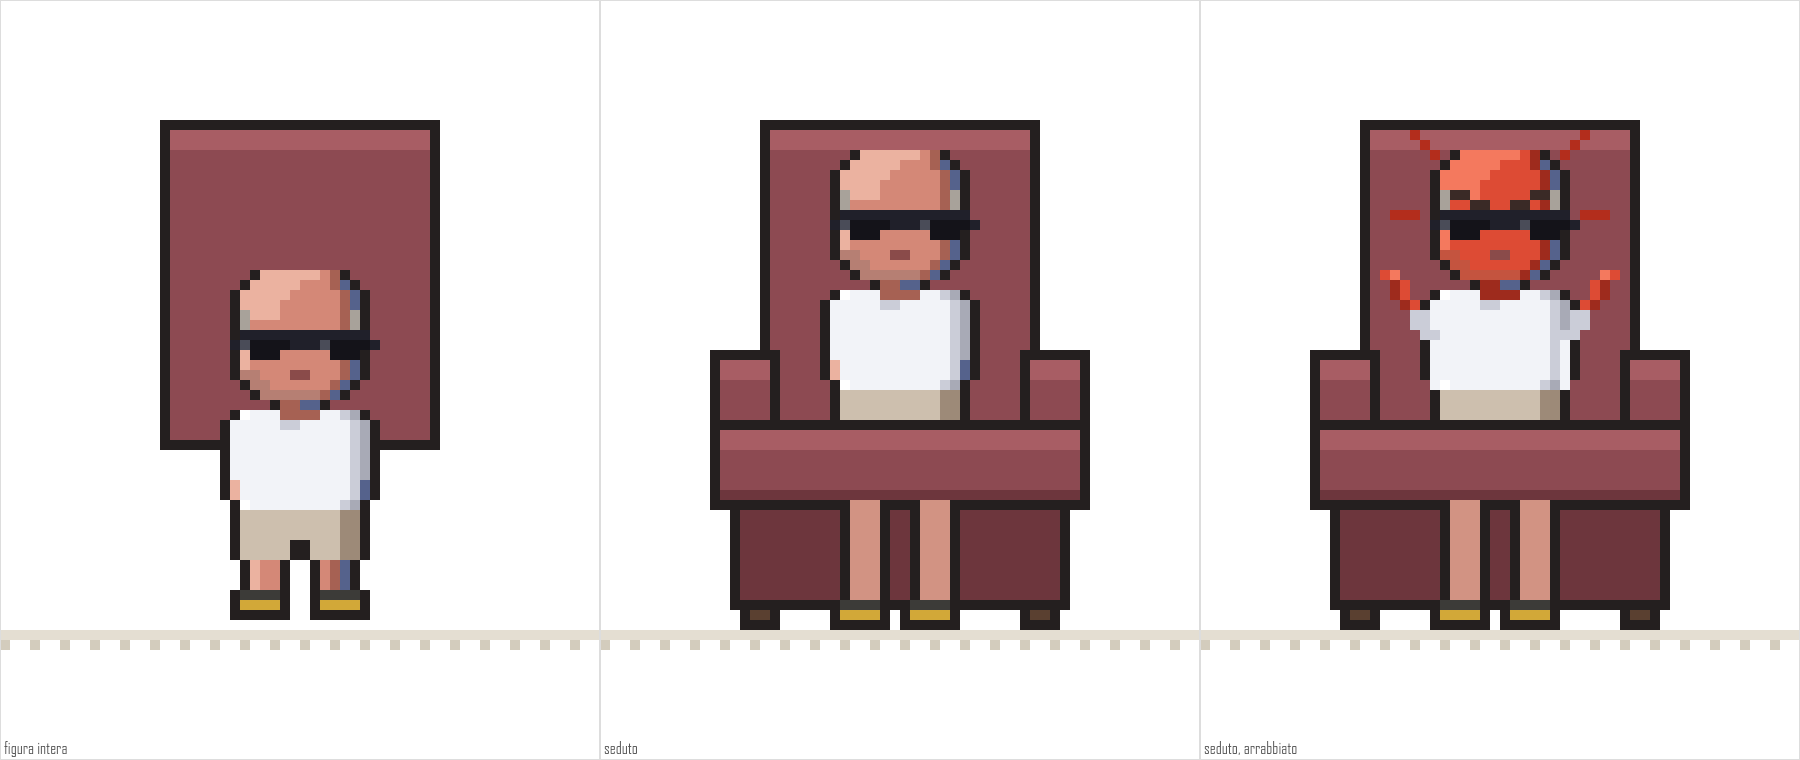
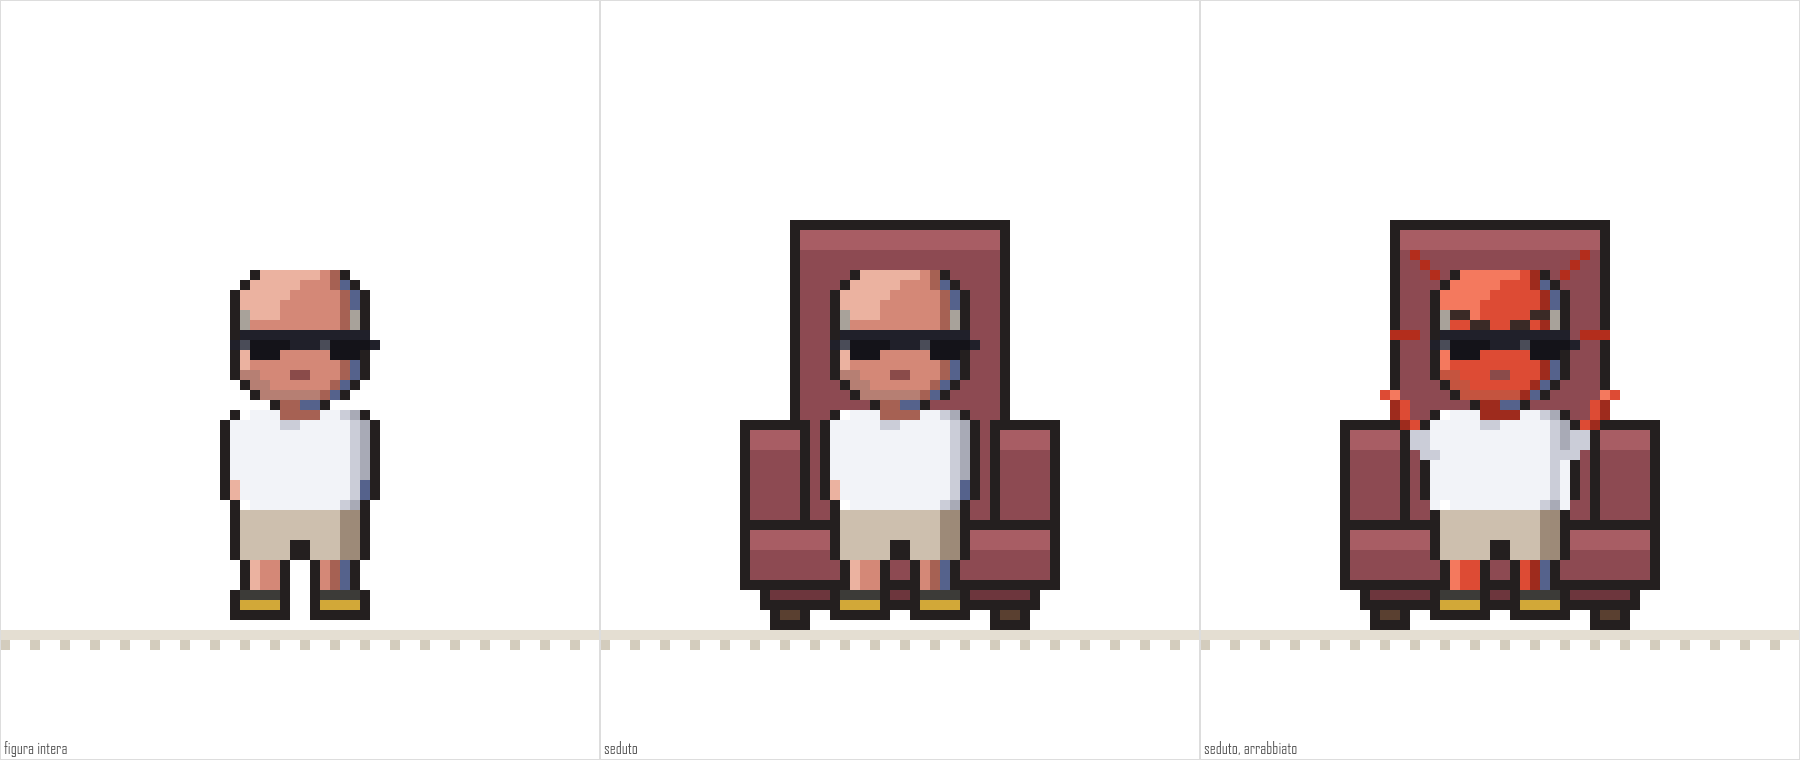
Poltrona rifatta sulla misura del personaggio
Avevo curato il sintomo. Le gambe lunghe non erano una soluzione: erano
la prova che il mobile era fuori scala.

La misura che comanda: dal fianco ai piedi lui e' alto DIECI pixel,
quattro di pantaloncini, tre di stinco, tre di scarpa. In piedi il suo
fianco cade a y=52. Il piano della seduta stava a y=42, cioe' a venti
pixel da terra: il doppio. Per fargli toccare terra gli ho disegnato
dieci pixel di gamba che non ha, ed e' per quello che sembrava allungato.

Ora il piano della seduta sta a y=52, esatto sulla linea dei fianchi.
Lui si disegna INTERO e come sempre, coi piedi a terra e le gambe della
sua lunghezza. Niente da nascondere, niente da inventare.

Di conseguenza cade tutto l'impianto delle passate. La poltrona non si
disegna piu' in due tempi con lui nel mezzo: sta tutta dietro, in una
passata sola. Non c'e' piu' da decidere chi passi davanti a chi, ed e'
esattamente li' che sparivano i pezzi di corpo, un ramo alla volta -
seduto il cuscino, camminando via il mobile intero, alzandosi il primo
fotogramma. Tre difetti diversi, una causa sola.

Larghezza presa sulle spalle e non a occhio: il corpo ne occupa 16 e fra
i braccioli ne restano 18. Con 36 la poltrona gli stava larga e sembrava
che ci stesse davanti in piedi invece che dentro: e' il mobile che
stringe a dire che ci e' seduto.

strumenti/seduto.js ora non conta piu' quanto copre il mobile - non
copre niente per costruzione - ma verifica che le due misure combacino:
[…]

Changed region(s): [[0.7156, 0.1513, 0.9644, 0.8474], [0.3733, 0.1513, 0.6222, 0.8474], [0.0622, 0.1513, 0.2489, 0.6053]]

diff --git a/finale.js b/finale.js
@@ -129,19 +129,31 @@ function statoCaduta(t){
    Vista di fronte. Si disegna in due passate: 'dietro' lo schienale,
    'davanti' seduta e braccioli. Il personaggio va in mezzo alle due.
    -------------------------------------------------------------------------- */
-/* Le misure della poltrona, tutte riferite al piano su cui ci si siede.
-   La prima versione aveva il cuscino spesso 12 e il piano a tre pixel dal
-   pavimento: fra il cuscino e terra non restava spazio per le gambe, e
-   seduto veniva tagliato alla pancia. Di fronte, una persona seduta si
-   riconosce dalle ginocchia: senza, sembra sprofondata nel mobile.
-   Ora il piano e' piu' alto e il cuscino piu' sottile, e sotto ci sono
-   dodici pixel liberi in cui far scendere gli stinchi. */
+/* LE MISURE DELLA POLTRONA, prese sul personaggio e non a occhio.
+
+   Dal fianco ai piedi lui e' alto DIECI pixel: quattro di pantaloncini, tre
+   di stinco, tre di scarpa. In piedi, quindi, il suo fianco cade a y=52.
+
+   E' quello il numero che comanda tutto. Le prime due versioni avevano il
+   piano della seduta a venti pixel da terra, cioe' il doppio: per fargli
+   toccare terra ho finito col disegnargli dieci pixel di gamba che non ha,
+   ed e' per questo che sembrava allungato. Non era la posa a essere
+   sbagliata, era il mobile fuori scala.
+
+   Adesso il piano sta a y=52, esattamente sulla linea dei fianchi. Cosi'
+   lui si disegna INTERO e come sempre, coi piedi a terra e le gambe della
+   sua lunghezza: non si nasconde niente e non si inventa niente. E' la
+   poltrona a stargli intorno. */
+/* La larghezza e' presa sulle spalle, non a occhio: il corpo ne occupa 16,
+   e fra i due braccioli ce ne devono restare giusto 18. Con 36 la poltrona
+   gli stava larga e sembrava che ci stesse davanti in piedi, non dentro:
+   e' il mobile che lo stringe a dire che ci e' seduto. */
 const POLT = {
-  larg: 38,
-  ySeduta: 42,        // il piano su cui appoggia
-  cuscino: 8,         // spessore del cuscino
+  larg: 32,
+  ySeduta: 52,        // la linea dei fianchi: non si tocca
+  cuscino: 6,
   schienale: 30,      // quanto sale lo schienale sopra il piano
-  bracciolo: 7        // quanto salgono i braccioli sopra il piano
+  bracciolo: 10       // quanto salgono i braccioli sopra il piano
 };
 
 function rett(P, x0, y0, x1, y1, colore){
@@ -154,29 +166,12 @@ function cornice(P, x0, y0, x1, y1, colore){
   for (let y = y0; y <= y1; y++){ P.punto(x0, y, colore); P.punto(x1, y, colore); }
 }
 
-/* Gli stinchi e le scarpe di chi e' seduto.
-   Le cosce non si disegnano: di fronte sono scorciate a niente e il cuscino
-   le copre comunque. Bastano le due gambe che scendono dal filo del cuscino
-   fino a terra, alle stesse colonne che hanno nello sprite in piedi, o le
-   gambe non sembrano le sue. */
-function gambeSedute(P, cx, daY, aY){
-  const sx = Math.round(cx - A.LARG_PERS / 2);
-  for (const dx of [5, 12]){             // le due gambe nello sprite del corpo
-    for (let y = daY; y <= aY - 3; y++){
-      P.punto(sx + dx, y, A.C.o);
-      for (let i = 1; i <= 3; i++) P.punto(sx + dx + i, y, A.C.s);
-      P.punto(sx + dx + 4, y, A.C.o);
-    }
-    // calzino, scarpa e suola: le stesse tre righe dello sprite in piedi
-    rett(P, sx + dx - 1, aY - 2, sx + dx + 4, aY - 2, A.C.f);
-    rett(P, sx + dx - 1, aY - 1, sx + dx + 4, aY - 1, A.C.y);
-    rett(P, sx + dx - 1, aY,     sx + dx + 4, aY,     A.C.o);
-    P.punto(sx + dx - 1, aY - 2, A.C.o); P.punto(sx + dx + 4, aY - 2, A.C.o);
-    P.punto(sx + dx - 1, aY - 1, A.C.o); P.punto(sx + dx + 4, aY - 1, A.C.o);
-  }
-}
-
-function poltrona(P, cx, parte, entrata){
+/* La poltrona, tutta in una passata sola.
+   Sta INTERAMENTE dietro al personaggio: nessun pezzo del mobile passa
+   davanti a lui, quindi non c'e' piu' niente che possa sparire. E' un
+   cambio di impianto: prima il mobile lo copriva e bisognava decidere
+   ogni volta chi stesse davanti a chi, e ogni ramo sbagliava a modo suo. */
+function poltrona(P, cx, entrata){
   // entrata da 0 a 1: arriva da fuori, a sinistra
   const dx = Math.round((1 - (entrata === undefined ? 1 : entrata)) * -60);
   const x0 = Math.round(cx - POLT.larg / 2) + dx;
@@ -185,48 +180,36 @@ function poltrona(P, cx, parte, entrata){
   const yGiu = yS + POLT.cuscino;               // il filo sotto il cuscino
   const ySchiena = yS - POLT.schienale;
 
-  if (parte === 'dietro'){
-    // schienale, con la bordatura chiara in alto: gli da' volume
-    rett(P, x0 + 5, ySchiena, x1 - 5, yS + 2, COL.stoffa);
-    rett(P, x0 + 5, ySchiena, x1 - 5, ySchiena + 2, COL.stoffaSu);
-    cornice(P, x0 + 5, ySchiena, x1 - 5, yS + 2, COL.filo);
-    return;
-  }
+  // schienale, con la bordatura chiara in alto: gli da' volume
+  rett(P, x0 + 5, ySchiena, x1 - 5, yS + 2, COL.stoffa);
+  rett(P, x0 + 5, ySchiena, x1 - 5, ySchiena + 2, COL.stoffaSu);
+  cornice(P, x0 + 5, ySchiena, x1 - 5, yS + 2, COL.filo);
 
-  // le gambe di chi e' seduto: vanno DOPO il mobile, perche' gli stinchi
-  // di chi siede stanno davanti alla base della poltrona
-  if (parte === 'gambe'){
-    gambeSedute(P, cx + dx, yGiu, SUOLO);
-    return;
-  }
-
-  // braccioli: appoggiati sul piano, non alti fino alle spalle
+  // braccioli: la cima all'altezza dei gomiti, non delle spalle
   for (const bx of [x0, x1 - 6]){
     rett(P, bx, yS - POLT.bracciolo, bx + 6, yGiu, COL.stoffa);
     rett(P, bx, yS - POLT.bracciolo, bx + 6, yS - POLT.bracciolo + 2, COL.stoffaSu);
     cornice(P, bx, yS - POLT.bracciolo, bx + 6, yGiu, COL.filo);
   }
-  // il cuscino
+
+  // il cuscino: il suo filo superiore cade sulla linea dei fianchi
   rett(P, x0, yS, x1, yGiu, COL.stoffa);
   rett(P, x0, yS, x1, yS + 2, COL.stoffaSu);
-  rett(P, x0, yGiu - 1, x1, yGiu, COL.stoffaGiu);
   cornice(P, x0, yS, x1, yGiu, COL.filo);
-  /* La base, piena fino a terra. Prima c'erano quattro gambe di legno alte
-     dodici pixel e la poltrona sembrava su trampoli: a un mobile imbottito
-     serve peso in basso. Le gambe di chi ci siede passano DAVANTI a questa
-     base, come succede davvero. */
+
+  // la base, piena fino a terra: a un mobile imbottito serve peso in basso
   rett(P, x0 + 2, yGiu, x1 - 2, SUOLO - 2, COL.stoffaGiu);
   cornice(P, x0 + 2, yGiu, x1 - 2, SUOLO - 2, COL.filo);
-  // due piedini appena accennati
   for (const px of [x0 + 3, x1 - 6]){
     rett(P, px, SUOLO - 2, px + 3, SUOLO, COL.legno);
     cornice(P, px, SUOLO - 2, px + 3, SUOLO, COL.filo);
   }
 }
 
-/* Dove mettere i piedi "finti" del corpo in piedi perche' il taglio del
-   cuscino cada sui fianchi: otto pixel sotto il piano della seduta. */
-const Y_SEDUTO = POLT.ySeduta + 8;
+/* Seduto e in piedi stanno alla stessa altezza, perche' il piano della
+   seduta e' proprio la sua linea dei fianchi. Non e' una scorciatoia: e'
+   il motivo per cui non serve piu' nascondergli niente. */
+const Y_SEDUTO = SUOLO;
 
 /* --------------------------------------------------------------------------
    LA PORTA — compare solo se rifiuta tre volte
@@ -423,9 +406,8 @@ function statoScelta(t, esito, tE, rifiuti){
       s.x += b.inclina; s.y = SUOLO + b.dy; s.azione = b.azione;
       s.fase = 'ballo';
     } else {
-      /* Prima si tira su, poi si sposta: partendo gia' in piedi restava un
-         fotogramma con mezzo corpo dietro il cuscino, come tagliato. */
-      s.y = Y_SEDUTO + (SUOLO - Y_SEDUTO) * Math.min(1, alzata * 2.4);
+      // una spintarella per tirarsi su dalla poltrona, poi si sposta
+      s.y = SUOLO - (alzata < 0.4 ? 2 : 0);
       s.azione = 'cammina';
     }
   }
@@ -460,11 +442,6 @@ function statoScelta(t, esito, tE, rifiuti){
     }
   }
 
-  /* Le gambe da seduto si disegnano quando, e solo quando, e' appoggiato al
-     cuscino. Legarle all'altezza invece che alla fase evita di doverci
-     pensare in ogni ramo: se e' li', ci sono. */
-  s.gambe = s.mostraLui && Math.round(s.y) === Y_SEDUTO;
-
   return s;
 }
 
@@ -490,8 +467,7 @@ const API = {
   LARG, ALT, SUOLO, X_CADUTA, X_POLTRONA, Y_SEDUTO, X_BALLO, COL, POLT,
   FASI, DURATA_CADUTA, statoCaduta,
   SCE, FA, FINE_PORTA, RABBIA_SEDUTO, statoScelta,
-  poltrona, gambeSedute, porta, coriandoli, passoDiBallo, lacrime, cuore,
-  suolo, velo,
+  poltrona, porta, coriandoli, passoDiBallo, lacrime, cuore, suolo, velo,
   rett, cornice, TINTE_FESTA
 };
 if (typeof module !== 'undefined' && module.exports) module.exports = API;

diff --git a/strumenti/seduto.js b/strumenti/seduto.js
@@ -34,13 +34,8 @@ CASI.forEach((k, n) => {
   }};
 
   F.suolo(P, 1);
-  const y = k.poltrona ? F.Y_SEDUTO : F.SUOLO;
-  F.poltrona(P, F.X_POLTRONA, "dietro", 1);
-  A.attore(P, F.X_POLTRONA, y, { azione: k.az, t: 40, rabbia: k.ra, ombra: false });
-  if (k.poltrona){
-    F.poltrona(P, F.X_POLTRONA, "davanti", 1);
-    F.poltrona(P, F.X_POLTRONA, "gambe", 1);
-  }
+  if (k.poltrona) F.poltrona(P, F.X_POLTRONA, 1);
+  A.attore(P, F.X_POLTRONA, F.SUOLO, { azione: k.az, t: 40, rabbia: k.ra, ombra: false });
 
   ctx.strokeStyle = "#ddd";
   ctx.strokeRect(gx * SCALA + .5, .5, L * SCALA - 1, AL * SCALA - 1);
@@ -52,25 +47,26 @@ CASI.forEach((k, n) => {
 fs.writeFileSync("anteprime/seduto.png", c.toBuffer("image/png"));
 console.log("seduto -> anteprime/seduto.png");
 
-/* La conta esatta: quali parti del corpo copre il mobile. */
-const cy = F.Y_SEDUTO - A.ALT_PERS;
-const PARTI = [["testa",0,12],["collo",13,13],["maglietta e braccia",14,23],
-               ["pantaloni",24,27],["gambe",28,30],["scarpe",31,33]];
+/* Il controllo che conta adesso non e' piu' "quanto copre il mobile" - la
+   poltrona sta tutta dietro, quindi non copre niente per costruzione - ma
+   che le due misure combacino: il piano della seduta deve cadere esatto
+   sulla linea dei fianchi, o per far toccare terra al personaggio bisogna
+   allungargli le gambe. E' l'errore che ha richiesto tre tentativi. */
+const cy = F.SUOLO - A.ALT_PERS;
+const fianchi = cy + 24;                 // riga 24 dello sprite: i pantaloni
+const sottoFianchi = A.ALT_PERS - 24;    // quanto e' alto dal fianco in giu
 
-const persona = new Map();
-A.attore({ punto(x,y,col){ if(col) persona.set(Math.round(x)+","+Math.round(y), 1); } },
-         F.X_POLTRONA, F.Y_SEDUTO, { azione:"fermo", t:40, rabbia:0.15, ombra:false });
-const mobile = new Set();
-F.poltrona({ punto(x,y,col){ if(col) mobile.add(Math.round(x)+","+Math.round(y)); } },
-           F.X_POLTRONA, "davanti", 1);
+console.log("");
+console.log("  dal fianco ai piedi:      " + sottoFianchi + " px");
+console.log("  linea dei fianchi:        y=" + fianchi);
+console.log("  piano della seduta:       y=" + F.POLT.ySeduta);
+console.log("  gambe da inventare:       " + (F.POLT.ySeduta - fianchi) + " px" +
+            (F.POLT.ySeduta === fianchi ? "   (nessuna: giusto)" : "   SBAGLIATO"));
 
-console.log("\nparte                 coperta dal mobile");
-for (const [nome, a, b] of PARTI){
-  let tot = 0, cop = 0;
-  for (const k of persona.keys()){
-    const r = +k.split(",")[1] - cy;
-    if (r < a || r > b) continue;
-    tot++; if (mobile.has(k)) cop++;
-  }
-  if (tot) console.log("  " + nome.padEnd(22) + String(Math.round(cop / tot * 100)).padStart(3) + "%");
-}
+const x0 = F.X_POLTRONA - Math.round(F.POLT.larg / 2);
+const x1 = x0 + F.POLT.larg - 1;
+const luce = (x1 - 6) - (x0 + 6) - 1;
+console.log("  luce fra i braccioli:     " + luce + " px  (spalle 16)");
+console.log(luce >= 17 && luce <= 20
+  ? "  la poltrona lo stringe: sembra seduto dentro"
+  : "  ATTENZIONE: troppo larga o troppo stretta");

diff --git a/strumenti/finale.js b/strumenti/finale.js
@@ -81,14 +81,12 @@ if (modo === "poltrona"){
     for (let y = 0; y < F.ALT; y++)
       for (let x = 0; x < F.LARG; x++) P.punto(x, y, fondo);
     F.suolo(P, k.bianco);
-    F.poltrona(P, F.X_POLTRONA, "dietro", k.entrata);
+    F.poltrona(P, F.X_POLTRONA, k.entrata);
     const x = k.seduto ? F.X_POLTRONA : F.X_POLTRONA + 46;
-    A.attore(P, x, k.seduto ? F.Y_SEDUTO : F.SUOLO, {
+    A.attore(P, x, F.SUOLO, {
       azione: k.rabbia > 0.6 ? "sbuffa" : "fermo",
       t: 40, rabbia: k.rabbia, ombra: !k.seduto
     });
-    F.poltrona(P, F.X_POLTRONA, "davanti", k.entrata);
-    if (k.seduto) F.poltrona(P, F.X_POLTRONA, "gambe", k.entrata);
     riquadro(ctx, gx, gy, k.et, k.bianco > 0.5);
   });
   fs.writeFileSync("anteprime/scelta.png", c.toBuffer("image/png"));
@@ -105,8 +103,8 @@ if (modo === "festa"){
     for (let y = 0; y < F.ALT; y++)
       for (let x = 0; x < F.LARG; x++) P.punto(x, y, F.COL.bianco);
     F.suolo(P, 1);
-    F.poltrona(P, F.X_POLTRONA, "dietro", 1);
-    F.poltrona(P, F.X_POLTRONA, "davanti", 1);
+    F.poltrona(P, F.X_POLTRONA, 1);
+    
     const b = F.passoDiBallo(t);
     A.attore(P, 74 + b.inclina, F.SUOLO + b.dy, {
       azione: b.azione, t, rabbia: 0, ombra: true
@@ -135,28 +133,22 @@ if (modo === "si" || modo === "no"){
       for (let y = 0; y < F.ALT; y++)
         for (let x = 0; x < F.LARG; x++) P.punto(x, y, F.COL.bianco);
       F.suolo(P, 1);
-      F.poltrona(P, F.X_POLTRONA, "dietro", 1);
+      F.poltrona(P, F.X_POLTRONA, 1);
       F.porta(P, F.LARG - 16, F.SUOLO, 1, 1);
-      F.poltrona(P, F.X_POLTRONA, "davanti", 1);
       F.velo(P, s.buio);
       F.cuore(P, F.LARG / 2, F.ALT / 2 - 2, s.cuore, 20);
     } else {
       for (let y = 0; y < F.ALT; y++)
         for (let x = 0; x < F.LARG; x++) P.punto(x, y, F.COL.bianco);
       F.suolo(P, 1);
-      F.poltrona(P, F.X_POLTRONA, "dietro", 1);
+      F.poltrona(P, F.X_POLTRONA, 1);
       if (s.porta) F.porta(P, F.LARG - 16, F.SUOLO, s.porta.apre, s.porta.comparsa);
-      if (!s.gambe) F.poltrona(P, F.X_POLTRONA, "davanti", 1);
       if (s.mostraLui){
         const r = A.attore(P, s.x, s.y, {
           azione: s.azione, t: tE, rabbia: s.rabbia,
           ombra: s.y === F.SUOLO, largTela: F.LARG
         });
         if (s.piange) F.lacrime(P, r.cx, r.cy, tE);
-      }
-      if (s.gambe){
-        F.poltrona(P, F.X_POLTRONA, "davanti", 1);
-        F.poltrona(P, F.X_POLTRONA, "gambe", 1);
       }
       if (s.coriandoli) F.coriandoli(P, tE);
     }
@@ -200,6 +192,8 @@ if (modo === "addio"){
   fs.writeFileSync("anteprime/addio.png", c.toBuffer("image/png"));
   console.log("addio -> anteprime/addio.png");
 }
+
+
 
 
 

diff --git a/index.html b/index.html
@@ -1157,9 +1157,8 @@ function disegnaScelta(){
     // la scena resta, e il nero le si stende sopra
     pulisciTela(F.COL.bianco);
     F.suolo(P, 1);
-    F.poltrona(P, F.X_POLTRONA, 'dietro', 1);
+    F.poltrona(P, F.X_POLTRONA, 1);
     F.porta(P, F.LARG - 16, F.SUOLO, 1, 1);
-    F.poltrona(P, F.X_POLTRONA, 'davanti', 1);
     F.velo(P, s.buio);
     F.cuore(P, F.LARG / 2, F.ALT / 2 - 2, s.cuore, fase);
     if (s.finito && !dettoAddio){
@@ -1173,30 +1172,20 @@ function disegnaScelta(){
 
   pulisciTela(A.mescola(F.COL.buio, F.COL.bianco, s.bianco));
   F.suolo(P, s.bianco);
-  F.poltrona(P, F.X_POLTRONA, 'dietro', s.entrata);
-  /* La porta va PRIMA di lui: disegnata dopo, il vano scuro lo cancellava
-     proprio nel momento in cui entra, e l'uscita si perdeva. Davanti al
-     buio dell'apertura invece si vede bene che se ne sta andando. */
+  /* Poltrona e porta stanno tutte e due dietro di lui, sempre. Prima il
+     mobile lo copriva e bisognava decidere ogni volta chi passasse davanti
+     a chi: e' li' che sparivano i pezzi di corpo, un ramo alla volta. */
+  F.poltrona(P, F.X_POLTRONA, s.entrata);
   if (s.porta) F.porta(P, F.LARG - 16, F.SUOLO, s.porta.apre, s.porta.comparsa);
-
-  /* Chi sta in piedi passa DAVANTI alla poltrona; chi ci siede ci sta
-     dentro. Disegnando sempre il mobile per ultimo, mentre camminava via
-     gli tagliava via mezzo corpo e restava un busto che scivola. */
-  if (!s.gambe) F.poltrona(P, F.X_POLTRONA, 'davanti', s.entrata);
 
   if (s.mostraLui){
     const r = A.attore(P, s.x, s.y, {
       azione: s.azione, t: esito === 'si' ? tEsito : fase, rabbia: s.rabbia,
-      ombra: s.y === F.SUOLO, largTela: F.LARG
+      ombra: true, largTela: F.LARG
     });
     if (s.piange) F.lacrime(P, r.cx, r.cy, fase);
   }
 
-  // da seduto: prima il mobile sopra di lui, poi i suoi stinchi davanti
-  if (s.gambe){
-    F.poltrona(P, F.X_POLTRONA, 'davanti', s.entrata);
-    F.poltrona(P, F.X_POLTRONA, 'gambe', s.entrata);
-  }
   if (s.coriandoli) F.coriandoli(P, tEsito);
 
   // le battute dei rifiuti, che non restano appese per sempre
